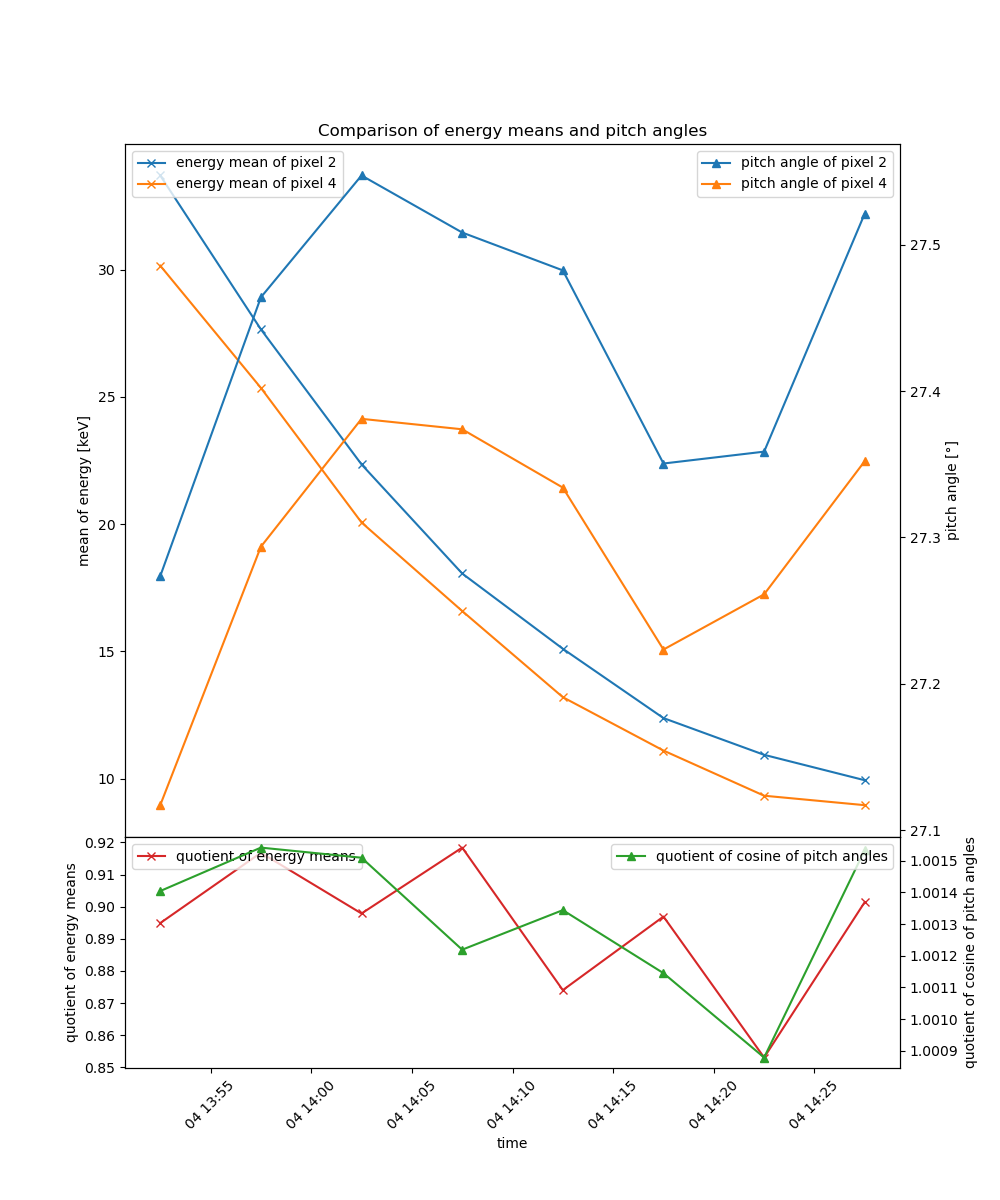
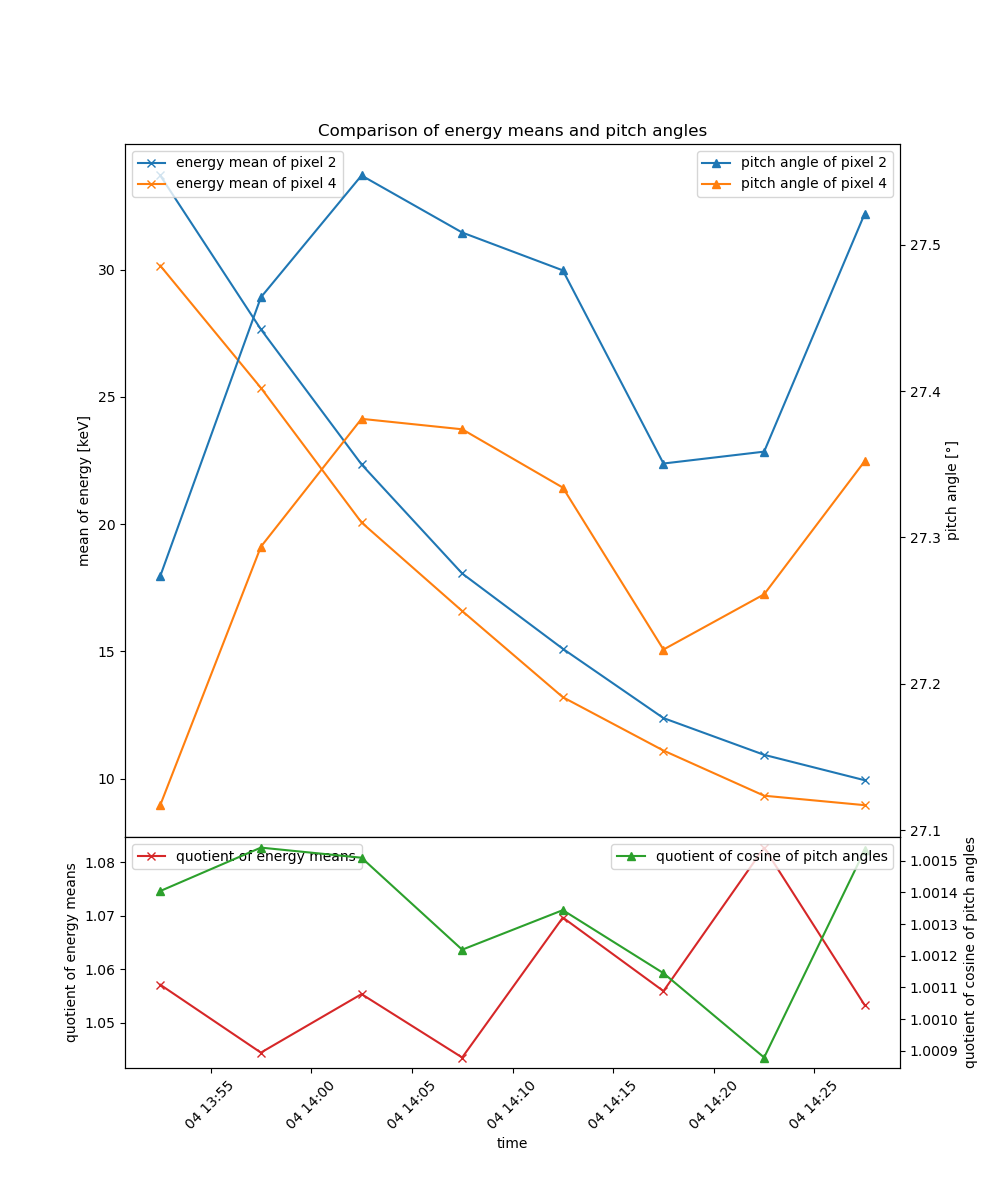
Als nächstes schauen, welche PW-Differenz ich für Korrektur bräuchte...

diff --git a/STEP.py b/STEP.py
@@ -387,9 +387,11 @@ class STEP():
         # Maske, da ich nur die Magnetfelddaten innerhalb von period brauche:
         mask = (self.mag.time > period[0]) * (self.mag.time <= period[1])
         pw = [[] for i in range(15)]
+        pw_time = []
         
         i = 0
         while (period[0] + dt.timedelta(minutes=(i+1)*window_width)) <= period[1]:
+            pw_time.append(period[0] + dt.timedelta(minutes=(i+0.5)*window_width))
             
             for k in [i for i in range(1,16)]:
                 # Mittelung der Pitchwinkel (k-1, da ich keine Zeit im array stehen habe)
@@ -397,7 +399,7 @@ class STEP():
                 new_pw = np.sum(pw_data[i*window_width:(i+1)*window_width])/window_width
                 pw[k-1].append(new_pw)
             i +=1
-        return pw
+        return pw, pw_time
 
     
     
@@ -542,8 +544,10 @@ class STEP():
         plt.legend()
         plt.savefig(rpath)
         
-    def pixel_comparison(self, pixel_means, pw, rpath, pixel1, pixel2):
-        '''Vergleich zweier Pixel mit Energie-Mittelwerten und Pitchwinkel.'''
+    def pixel_comparison(self, pixel_means, pw, pw_time, rpath, pixel1, pixel2):
+        '''Vergleich zweier Pixel mit Energie-Mittelwerten und Pitchwinkel.
+        Die Zeit der Energiemittelwerte steckt in pixel_means. Für die Pitchwinkel
+        wird sie extra übergeben.'''
         plt.figure(figsize=(10,12))
         gs = gridspec.GridSpec(2,1,height_ratios=[3,1])
         ax = plt.subplot(gs[0])
@@ -556,14 +560,22 @@ class STEP():
         ax.set_ylabel('mean of energy [keV]')
         ax_pw.set_ylabel('pitch angle [°]')
 
-        # Hier mal rumspielen, ob ich eventuell eine brauchbare Korrektur finden kann...
-        pw1_ayuda = np.cos(np.radians(np.array(pw[pixel2-1])))
-        pw2_ayuda = np.cos(np.radians(np.array(pw[pixel1-1])))
-        # pw1_ayuda = np.array(pw[pixel2-1])
-        # pw2_ayuda = np.array(pw[pixel1-1])
 
-        ax_quot.plot(pixel_means[0],pixel_means[pixel2]/pixel_means[pixel1],marker='x',label='quotient of energy means',c='tab:red')
-        ax_quot_pw.plot(self.time,pw1_ayuda/pw2_ayuda,marker='^',label='quotient of cosine of pitch angles',c='tab:green')
+        # Arrays für die Betrachtung der Quotienten
+        # Mal sehen, ob ich eine brauchbare Korrektur finden kann...
+        
+        pixel_means1_ayuda = np.sqrt(np.array(pixel_means[pixel1]))
+        pixel_means2_ayuda = np.sqrt(np.array(pixel_means[pixel2]))
+
+        pw1_ayuda = np.cos(np.radians(np.array(pw[pixel1-1])))
+        pw2_ayuda = np.cos(np.radians(np.array(pw[pixel2-1])))
+
+        ratio_means = pixel_means1_ayuda/pixel_means2_ayuda
+        ratio_pw = pw2_ayuda/pw1_ayuda
+
+
+        ax_quot.plot(pixel_means[0],ratio_means,marker='x',label='quotient of energy means',c='tab:red')
+        ax_quot_pw.plot(pw_time,ratio_pw,marker='^',label='quotient of cosine of pitch angles',c='tab:green')
         ax_quot.set_ylabel('quotient of energy means')
         ax_quot_pw.set_ylabel('quotient of cosine of pitch angles')
         ax_quot.set_xlabel('time')
@@ -575,7 +587,58 @@ class STEP():
         ax_quot_pw.legend(loc='upper right')
         plt.subplots_adjust(hspace=0.001)
         plt.savefig(rpath)
+        plt.close('all')
         
+        
+                
+    def energy_correction(self,energy,pw1_degree,pw2_degree):
+        '''Korrigiert die übergebene Energie über die übergebenen Pitchwinkel und die implementierte Korrektur.
+        energy entspricht der Energie des Pixels, der pw2 gesehen hat.'''
+        
+        pw1 = np.radians(pw1_degree)
+        pw2 = np.radians(pw2_degree)
+        corr = np.cos(pw2)*np.cos(pw2)/np.cos(pw1)/np.cos(pw1)
+        return corr*energy
+        
+        
+        
+    def pixel_comparison_corrected(self, pixel_means, pw, rpath, pixel1, pixel2):
+        '''Plot der originalen Energiemittelwerte sowie der Korrektur.'''
+        
+        plt.figure(figsize=(10,9))
+        gs = gridspec.GridSpec(2,1,height_ratios=[2,1])
+        
+        ax = plt.subplot(gs[0])
+        
+        ax.plot(pixel_means[0],pixel_means[pixel1],marker='x',label=f'energy mean of pixel {pixel1}')
+        ax.plot(pixel_means[0],pixel_means[pixel2],marker='x',label=f'energy mean of pixel {pixel2}')
+        
+        energy2_corrected = self.energy_correction(pixel_means[pixel2],pw[pixel1-1],pw[pixel2-1])
+        
+        ax.plot(pixel_means[0],energy2_corrected,marker='x',label=f'corrected energy mean of pixel {pixel2}')
+        
+        ax.set_ylabel('mean of energy [keV]')
+        ax.legend()
+        ax.set_title('Correction of energy means')
+        
+        # Plots der Differenzen
+        ax2 = plt.subplot(gs[1],sharex=ax)
+        
+        diff_original = pixel_means[pixel2] - pixel_means[pixel1]
+        diff_corrected = energy2_corrected - pixel_means[pixel1]
+        
+        ax2.plot(pixel_means[0],diff_original,marker='x',label='difference of energy means')
+        ax2.plot(pixel_means[0],diff_corrected,marker='x',label='difference of energy means with correction')
+        
+        ax2.set_ylabel('difference of energy means [keV]')
+        ax2.set_xlabel('time')
+        ax2.tick_params(axis='x',labelrotation=45)
+        ax2.legend()
+        
+        plt.subplots_adjust(hspace=0.001)
+        plt.savefig(rpath)
+        plt.close('all')
+
         
         
     def distribution_ring(self, filename, title, head, norm, period, grenzfunktion=None,below=True,box_list=None, norm_pixel=3, correction = False, save='gif/', res = '1min', overflow = True, esquare = False,window_width = 5, close=True, sorted_by_energy=False):
@@ -595,7 +658,8 @@ class STEP():
         pixel_means = self.calc_energy_means(ebins=ebins,res=res,head=head,period=period,grenzfunktion=grenzfunktion,below=below,box_list=box_list,window_width=window_width,pixel_list=[i for i in range(1,16)],norm=norm,overflow=overflow,esquare=esquare)
         
         # Berechnung der Pitchwinkel
-        pw = self.calc_pw(period=period,window_width=window_width)
+        pw, pw_time = self.calc_pw(period=period,window_width=window_width)
+
             
         if sorted_by_energy:
             ind = np.argsort(pixel_means[norm_pixel])

diff --git a/plausibility_pw.py b/plausibility_pw.py
@@ -32,25 +32,45 @@ def grenz(t):
 pixel_means5 = dat.calc_energy_means(ebins=ebins,head=-1, period=period, grenzfunktion=grenz)
 # pixel_means1 = dat.calc_energy_means(ebins=ebins,head=-1, period=period, grenzfunktion=grenz, window_width=1)
 
-pw5 = dat.calc_pw(period, window_width=5)
-# pw1 = dat.calc_pw(period, window_width=1)
+pw5, pw5_time = dat.calc_pw(period, window_width=5)
+# pw1 pw1_time = dat.calc_pw(period, window_width=1)
+
+
+
+### Plot der Zeitreihe als STEP-Plot ###
+
+dat.plot_ts(period=period, head=-1, save='plausibility_pw/', norm='tmax',grenzfunktion=grenz)
+
+
+
+### Plot der Verteilung von Energiemittelwert und Pitchwinkel ###
+
+dat.distribution_ring('time_series_energy_means_pw_2021_12_04','mean of energy (time series)',head=-1,window_width=1,norm='tmax',save='plausibility_pw/',period=period,grenzfunktion=grenz,below=True,close=True)
+
 
 
 ### Plots für Pixel mit ähnlichen Pitchwinkeln: ###
 
-dat.pixel_comparison(pixel_means5, pw5, 'plausibility_pw/comparison_5_minutes_pixel_1_5.png', 1, 5)
-dat.pixel_comparison(pixel_means5, pw5, 'plausibility_pw/comparison_5_minutes_pixel_2_4.png', 2, 4)
-dat.pixel_comparison(pixel_means5, pw5, 'plausibility_pw/comparison_5_minutes_pixel_6_10.png', 6, 10)
-dat.pixel_comparison(pixel_means5, pw5, 'plausibility_pw/comparison_5_minutes_pixel_7_9.png', 7, 9)
-dat.pixel_comparison(pixel_means5, pw5, 'plausibility_pw/comparison_5_minutes_pixel_11_15.png', 11, 15)
-dat.pixel_comparison(pixel_means5, pw5, 'plausibility_pw/comparison_5_minutes_pixel_12_14.png', 12, 14)
+dat.pixel_comparison(pixel_means5, pw5, pw5_time, 'plausibility_pw/comparison_5_minutes_pixel_1_5.png', 1, 5)
+dat.pixel_comparison(pixel_means5, pw5, pw5_time, 'plausibility_pw/comparison_5_minutes_pixel_2_4.png', 2, 4)
+dat.pixel_comparison(pixel_means5, pw5, pw5_time, 'plausibility_pw/comparison_5_minutes_pixel_6_10.png', 6, 10)
+dat.pixel_comparison(pixel_means5, pw5, pw5_time, 'plausibility_pw/comparison_5_minutes_pixel_7_9.png', 7, 9)
+dat.pixel_comparison(pixel_means5, pw5, pw5_time, 'plausibility_pw/comparison_5_minutes_pixel_11_15.png', 11, 15)
+dat.pixel_comparison(pixel_means5, pw5, pw5_time, 'plausibility_pw/comparison_5_minutes_pixel_12_14.png', 12, 14)
+
+dat.pixel_comparison_corrected(pixel_means5, pw5, 'plausibility_pw/comparison_corrected_5_minutes_pixel_1_5.png', 1, 5)
+dat.pixel_comparison_corrected(pixel_means5, pw5, 'plausibility_pw/comparison_corrected_5_minutes_pixel_2_4.png', 2, 4)
+dat.pixel_comparison_corrected(pixel_means5, pw5, 'plausibility_pw/comparison_corrected_5_minutes_pixel_6_10.png', 6, 10)
+dat.pixel_comparison_corrected(pixel_means5, pw5, 'plausibility_pw/comparison_corrected_5_minutes_pixel_7_9.png', 7, 9)
+dat.pixel_comparison_corrected(pixel_means5, pw5, 'plausibility_pw/comparison_corrected_5_minutes_pixel_11_15.png', 11, 15)
+dat.pixel_comparison_corrected(pixel_means5, pw5, 'plausibility_pw/comparison_corrected_5_minutes_pixel_12_14.png', 12, 14)
     
-# dat.pixel_comparison(pixel_means1, pw1, 'plausibility_pw/comparison_1_minutes_pixel_1_5.png', 1, 5)
-# dat.pixel_comparison(pixel_means1, pw1, 'plausibility_pw/comparison_1_minutes_pixel_2_4.png', 2, 4)
-# dat.pixel_comparison(pixel_means1, pw1, 'plausibility_pw/comparison_1_minutes_pixel_6_10.png', 6, 10)
-# dat.pixel_comparison(pixel_means1, pw1, 'plausibility_pw/comparison_1_minutes_pixel_7_9.png', 7, 9)
-# dat.pixel_comparison(pixel_means1, pw1, 'plausibility_pw/comparison_1_minutes_pixel_11_15.png', 11, 15)
-# dat.pixel_comparison(pixel_means1, pw1, 'plausibility_pw/comparison_1_minutes_pixel_12_14.png', 12, 14)
+# dat.pixel_comparison(pixel_means1, pw1, pw1_time, 'plausibility_pw/comparison_1_minutes_pixel_1_5.png', 1, 5)
+# dat.pixel_comparison(pixel_means1, pw1, pw1_time, 'plausibility_pw/comparison_1_minutes_pixel_2_4.png', 2, 4)
+# dat.pixel_comparison(pixel_means1, pw1, pw1_time, 'plausibility_pw/comparison_1_minutes_pixel_6_10.png', 6, 10)
+# dat.pixel_comparison(pixel_means1, pw1, pw1_time, 'plausibility_pw/comparison_1_minutes_pixel_7_9.png', 7, 9)
+# dat.pixel_comparison(pixel_means1, pw1, pw1_time, 'plausibility_pw/comparison_1_minutes_pixel_11_15.png', 11, 15)
+# dat.pixel_comparison(pixel_means1, pw1, pw1_time, 'plausibility_pw/comparison_1_minutes_pixel_12_14.png', 12, 14)
 
 
 plt.close("all")
